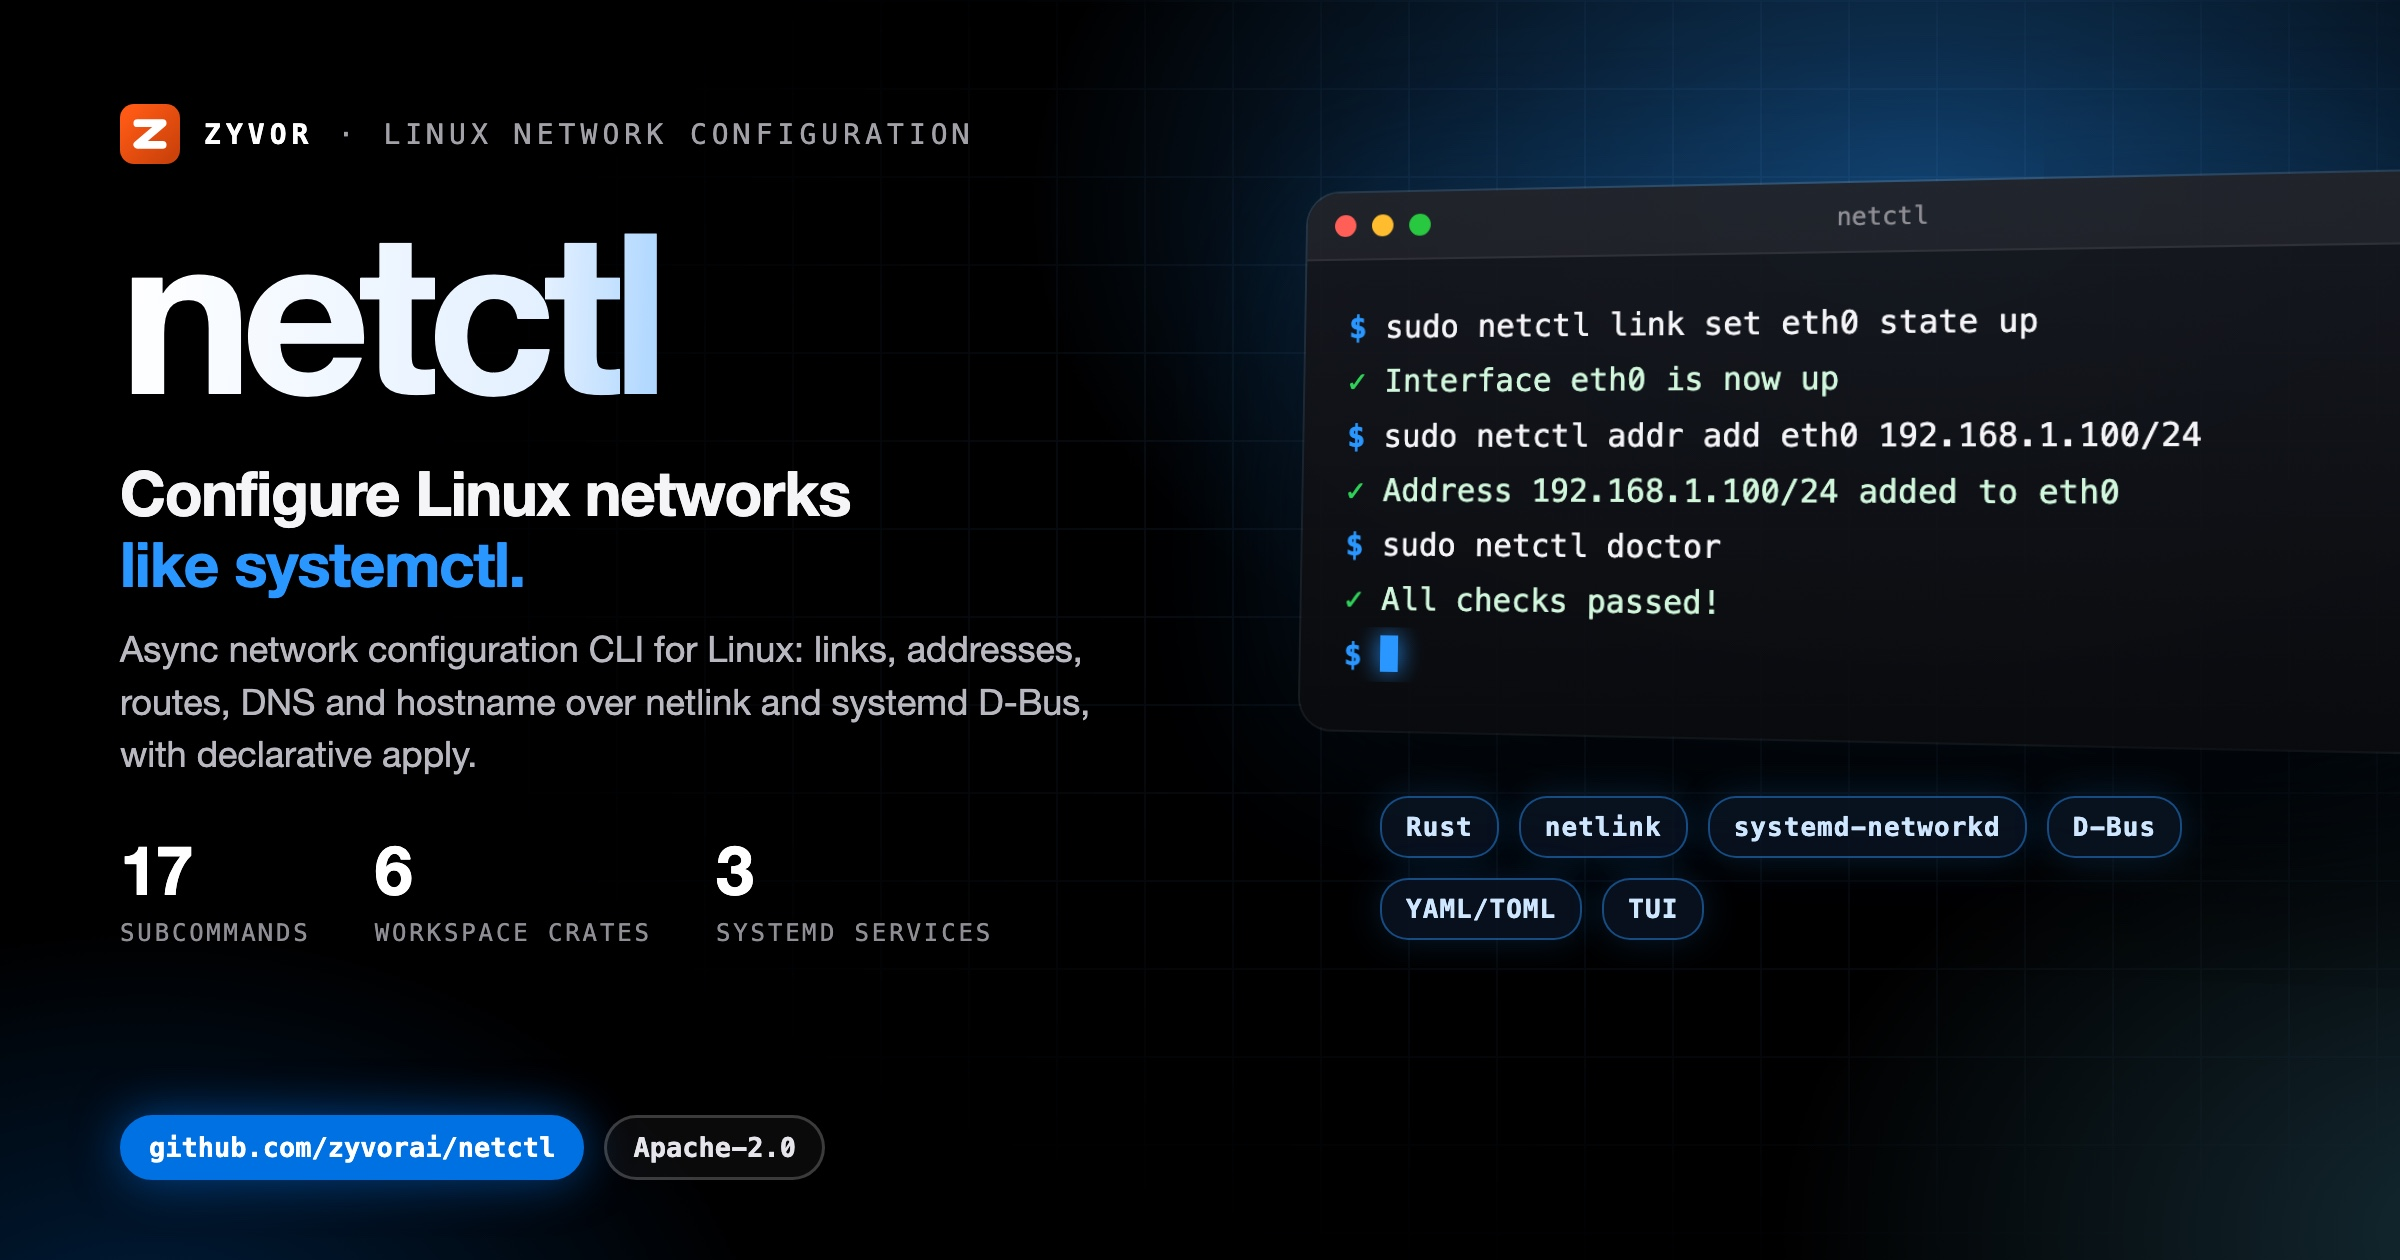
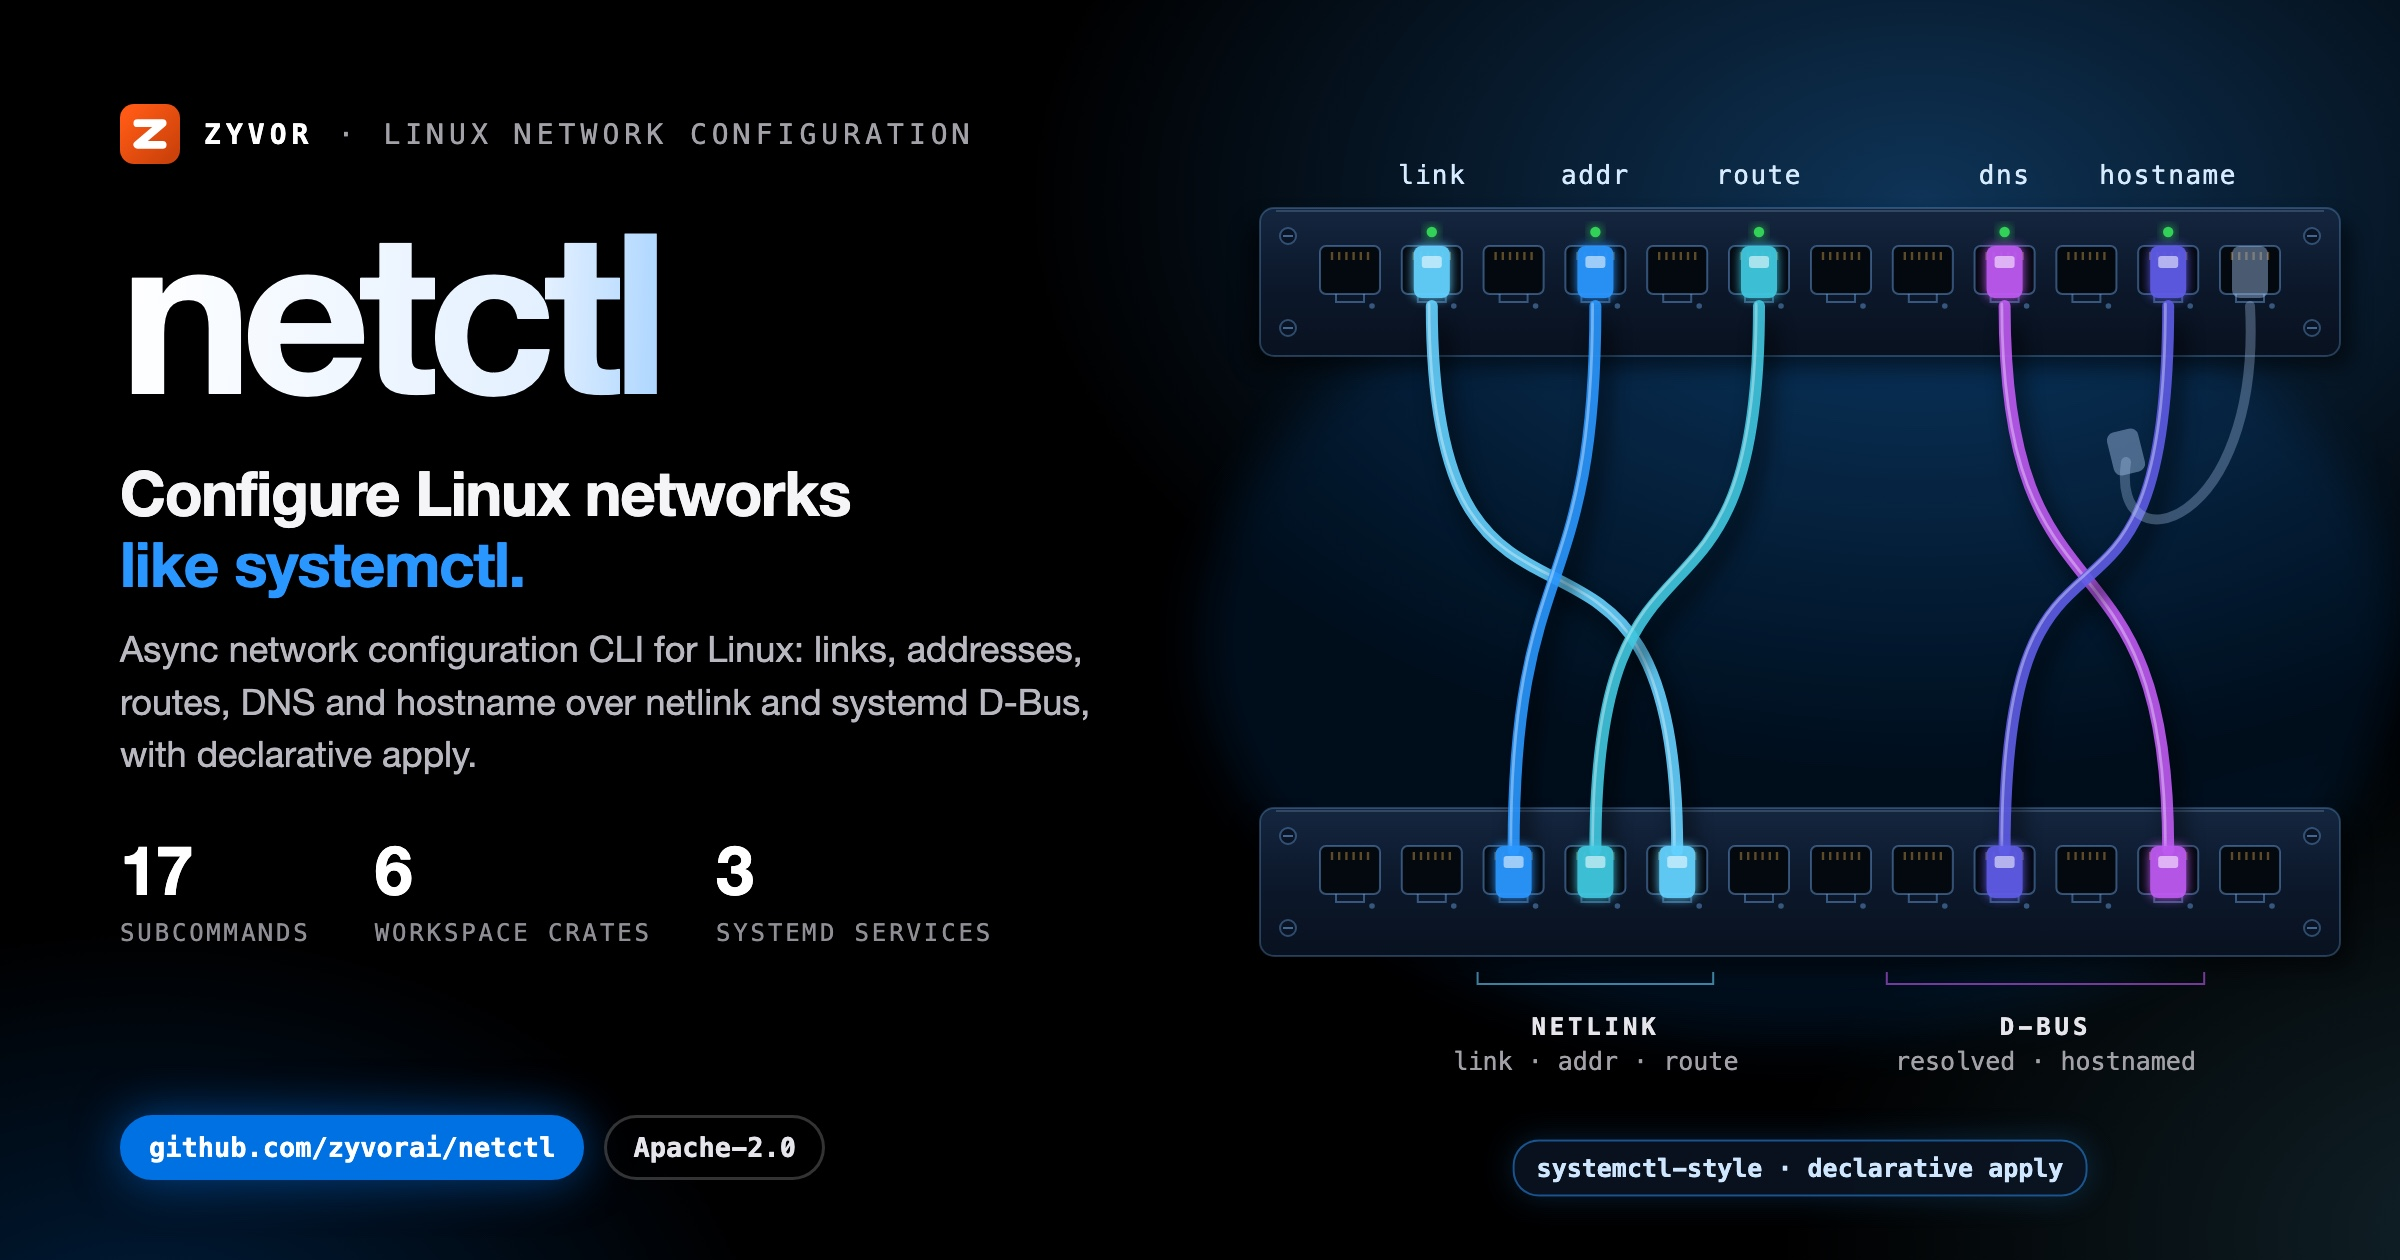
docs(social): unique illustrated hero card
Replace the shared terminal-window art with a motif drawn for this project;
same verified copy and stats on the left.

Changed region(s): [[0.5, 0.1238, 1.0, 0.8667], [0.625, 0.8976, 0.875, 0.9595]]

diff --git a/docs/social/netctl-hero-dark.html b/docs/social/netctl-hero-dark.html
@@ -8,58 +8,47 @@
   Build: ./docs/social/build-hero-dark.sh  ->  netctl-hero-dark.jpg (2400x1260)
 -->
 <style>
-  :root { --blue:#0071e3; --signal:#2997ff; --cyan:#64d2ff; --green:#30d158; --amber:#ff9f0a;
+  :root { --blue:#0071e3; --signal:#2997ff; --cyan:#64d2ff; --green:#30d158; --amber:#ff9f0a; --red:#ff453a; --violet:#bf5af2;
     --sans:'SF Pro Display','Helvetica Neue',Helvetica,Arial,sans-serif; --mono:'SF Mono',Menlo,Consolas,monospace; }
   * { box-sizing:border-box; }
   html,body { margin:0; padding:0; }
   body { width:1200px; height:630px; overflow:hidden; color:#f5f5f7; font-family:var(--sans); position:relative; background:#000; }
   .aurora { position:absolute; inset:0;
-    background:radial-gradient(720px 460px at 80% 16%, rgba(41,151,255,.40), transparent 62%),
-               radial-gradient(600px 420px at 104% 98%, rgba(100,210,255,.20), transparent 60%),
+    background:radial-gradient(720px 460px at 80% 16%, rgba(41,151,255,.34), transparent 62%),
+               radial-gradient(600px 420px at 104% 98%, rgba(100,210,255,.16), transparent 60%),
                radial-gradient(520px 380px at 6% 110%, rgba(0,113,227,.28), transparent 60%); }
-  .grid { position:absolute; inset:0; opacity:.09;
-    background-image:linear-gradient(rgba(120,180,255,.9) 1px,transparent 1px),linear-gradient(90deg,rgba(120,180,255,.9) 1px,transparent 1px);
-    background-size:44px 44px; -webkit-mask-image:radial-gradient(900px 520px at 72% 42%, #000 18%, transparent 75%); }
-  .left { position:absolute; left:60px; top:52px; width:560px; z-index:3; }
+  .copy { position:absolute; left:60px; top:52px; width:560px; z-index:3; }
   .brand { display:flex; align-items:center; gap:12px; font-family:var(--mono); font-size:14px; letter-spacing:.18em; text-transform:uppercase; color:#a1a1a6; }
   .brand b { color:#fff; }
   .word { margin:20px 0 0; font-size:112px; line-height:.95; font-weight:800; letter-spacing:-.05em; white-space:nowrap;
     background:linear-gradient(92deg,#fff 0%,#e3f0ff 38%,var(--signal) 74%,var(--cyan) 100%); -webkit-background-clip:text; background-clip:text; color:transparent; padding-bottom:6px; }
   .tag { margin:14px 0 0; font-size:31px; line-height:1.15; font-weight:700; letter-spacing:-.02em; }
   .tag em { font-style:normal; color:var(--signal); }
-  .lede { margin:12px 0 0; font-size:18px; line-height:1.45; color:#b8b8bf; width:520px; }
+  .lede { margin:12px 0 0; font-size:18px; line-height:1.45; color:#b8b8bf; width:520px; text-shadow:0 1px 12px #000; }
   .stats { margin-top:24px; display:flex; gap:32px; }
   .stat b { display:block; font-size:34px; font-weight:800; letter-spacing:-.03em; color:#fff; }
   .stat span { font-family:var(--mono); font-size:12px; letter-spacing:.12em; text-transform:uppercase; color:#8e8e93; }
   .pill { position:absolute; left:60px; bottom:40px; display:flex; gap:10px; z-index:3; }
-  .pill span { font-family:var(--mono); font-size:13.5px; font-weight:700; padding:7px 13px; border-radius:18px; border:1.5px solid rgba(255,255,255,.2); color:#e5e5ea; background:rgba(255,255,255,.04); }
+  .pill span { font-family:var(--mono); font-size:13.5px; font-weight:700; padding:7px 13px; border-radius:18px; border:1.5px solid rgba(255,255,255,.2); color:#e5e5ea; background:rgba(0,0,0,.6); }
   .pill span.b { background:var(--blue); border-color:var(--blue); color:#fff; box-shadow:0 0 24px rgba(0,113,227,.55); }
-
-  .right { position:absolute; left:652px; top:96px; width:560px; z-index:2; }
-  .win { position:relative; width:560px; border-radius:16px; overflow:hidden; z-index:2;
-    background:linear-gradient(180deg, rgba(22,24,30,.94), rgba(10,11,14,.96));
-    box-shadow:0 50px 100px rgba(0,0,0,.75), 0 0 0 1px rgba(255,255,255,.14), 0 0 90px rgba(41,151,255,.22);
-    transform:perspective(1600px) rotateY(-14deg) rotateX(4deg); transform-origin:left center; }
-  .bar { height:34px; display:flex; align-items:center; gap:8px; padding:0 14px; background:rgba(255,255,255,.05); border-bottom:1px solid rgba(255,255,255,.07); }
-  .bar i { width:11px; height:11px; border-radius:50%; background:#ff5f57; } .bar i:nth-child(2){background:#febc2e} .bar i:nth-child(3){background:#28c840}
-  .bar em { margin-left:auto; margin-right:auto; font-style:normal; font-family:var(--mono); font-size:12px; color:#8e8e93; transform:translateX(-24px); }
-  .term { min-height:214px; padding:20px 22px 24px; font-family:var(--mono); font-size:15.5px; line-height:1.75; }
-  .l { white-space:pre; overflow:hidden; text-overflow:ellipsis; color:#f5f5f7; }
-  .l .p { color:var(--signal); font-weight:700; }
-  .l.out { color:#a1a1a6; }
-  .l.cm { color:#6e6e73; }
-  .l.ok { color:#d1f7dc; } .l.ok span { color:var(--green); font-weight:700; }
-  .l.warn { color:#ffe1b0; } .l.warn span { color:var(--amber); font-weight:700; }
-  .cur { display:inline-block; width:9px; height:18px; background:var(--signal); vertical-align:-3px; box-shadow:0 0 12px var(--signal); }
-  .chips { margin:34px 0 0 38px; width:480px; display:flex; flex-wrap:wrap; gap:10px; position:relative; z-index:3; }
-  .chips span { font-family:var(--mono); font-size:13px; font-weight:700; letter-spacing:.04em; padding:7px 12px; border-radius:14px;
-    color:#cfe6ff; background:rgba(10,20,35,.82); border:1px solid rgba(41,151,255,.45); box-shadow:0 0 18px rgba(41,151,255,.18); }
+  .art { position:absolute; left:520px; top:0; width:680px; height:630px; z-index:2; }
+  .art svg { display:block; }
+  #labels { position:absolute; inset:0; z-index:4; pointer-events:none; }
+  .lbl { position:absolute; font-family:var(--mono); font-size:12.5px; color:#a1a1a6; text-align:center; transform:translate(-50%,-50%); white-space:nowrap; }
+  .lbl b { display:block; font-size:12px; letter-spacing:.16em; text-transform:uppercase; color:#e5e5ea; }
+  .lbl span { display:block; margin-top:3px; }
+  .lbl.box { padding:7px 12px; border-radius:12px; background:rgba(8,10,14,.85); border:1px solid rgba(255,255,255,.14); }
+  .lbl.chip { padding:6px 11px; border-radius:13px; font-size:12.5px; font-weight:700; color:#cfe6ff; background:rgba(10,20,35,.85); border:1px solid rgba(41,151,255,.5); box-shadow:0 0 16px rgba(41,151,255,.2); }
+  .lbl.left { transform:translate(0,-50%); text-align:left; }
+  .lbl.right { transform:translate(-100%,-50%); text-align:right; }
+  .ok { color:var(--green) !important; } .warn { color:var(--amber) !important; } .bad { color:var(--red) !important; } .sig { color:var(--signal) !important; } .cy { color:var(--cyan) !important; } .vi { color:var(--violet) !important; }
 </style>
 </head>
 <body>
 <div class="aurora"></div>
-<div class="grid"></div>
-<div class="left">
+<div class="art"><svg id="art" width="680" height="630" viewBox="0 0 680 630" xmlns="http://www.w3.org/2000/svg"></svg></div>
+<div id="labels"></div>
+<div class="copy">
   <div class="brand"><svg viewBox="0 0 64 64" width="30" height="30" aria-hidden="true"><defs><linearGradient id="zb" x1="8" y1="8" x2="56" y2="56" gradientUnits="userSpaceOnUse"><stop offset="0" stop-color="#ff5a15"/><stop offset="1" stop-color="#cc420a"/></linearGradient></defs><rect width="64" height="64" rx="15" fill="url(#zb)"/><path d="M18.5,20.5 45.5,20.5 18.5,43.5 45.5,43.5" fill="none" stroke="#fff" stroke-width="8.3" stroke-linecap="round" stroke-linejoin="round"/></svg><b>Zyvor</b><span>&middot;</span><span>Linux network configuration</span></div>
   <div class="word">netctl</div>
   <div class="tag">Configure Linux networks<br><em>like systemctl.</em></div>
@@ -67,8 +56,103 @@
   <div class="stats"><div class="stat"><b>17</b><span>subcommands</span></div><div class="stat"><b>6</b><span>workspace crates</span></div><div class="stat"><b>3</b><span>systemd services</span></div></div>
 </div>
 <div class="pill"><span class="b">github.com/zyvorai/netctl</span><span>Apache-2.0</span></div>
-<div class="right"><div class="win"><div class="bar"><i></i><i></i><i></i><em>netctl</em></div>
-<div class="term"><div class="l"><span class="p">$</span> sudo netctl link set eth0 state up</div><div class="l ok"><span>&#10003;</span> Interface eth0 is now up</div><div class="l"><span class="p">$</span> sudo netctl addr add eth0 192.168.1.100/24</div><div class="l ok"><span>&#10003;</span> Address 192.168.1.100/24 added to eth0</div><div class="l"><span class="p">$</span> sudo netctl doctor</div><div class="l ok"><span>&#10003;</span> All checks passed!</div><div class="l"><span class="p">$</span> <i class="cur"></i></div></div></div>
-<div class="chips"><span>Rust</span><span>netlink</span><span>systemd-networkd</span><span>D-Bus</span><span>YAML/TOML</span><span>TUI</span></div></div>
+<script>
+var Z = (function () {
+  var NS = 'http://www.w3.org/2000/svg', svg = document.getElementById('art'), labels = document.getElementById('labels');
+  var seed = 20261004;
+  function rnd() { seed = (seed * 1103515245 + 12345) % 2147483648; return seed / 2147483648; }
+  function el(tag, a, parent) { var n = document.createElementNS(NS, tag); for (var k in a) n.setAttribute(k, a[k]); (parent || svg).appendChild(n); return n; }
+  function g(attrs) { return el('g', attrs || {}); }
+  function label(x, y, inner, cls, style) { var d = document.createElement('div'); d.className = 'lbl ' + (cls || ''); d.style.left = (520 + x) + 'px'; d.style.top = y + 'px'; if (style) d.setAttribute('style', d.getAttribute('style') + ';' + style); d.innerHTML = inner; labels.appendChild(d); return d; }
+  return { NS: NS, svg: svg, W: 680, H: 630, rnd: rnd, el: el, g: g, label: label,
+    reseed: function (s) { seed = s; },
+    c: { blue: '#0071e3', signal: '#2997ff', cyan: '#64d2ff', green: '#30d158', amber: '#ff9f0a', red: '#ff453a', violet: '#bf5af2', teal: '#40c8e0', indigo: '#5e5ce6', pink: '#ff375f', white: '#f5f5f7', grey: '#8e8e93' } };
+})();
+(function () {
+// netctl: a patch bay. The top panel holds the netctl verbs; smooth patch cables drop to the bottom panel,
+// where netlink and the systemd D-Bus services take them.
+var C = Z.c, x0 = 110, x1 = 650, mono = 'ui-monospace, SFMono-Regular, Menlo, monospace';
+var defs = Z.el('defs', {});
+defs.innerHTML = '<filter id="nc-gl" x="-50%" y="-50%" width="200%" height="200%"><feGaussianBlur stdDeviation="2.6" result="b"/><feMerge><feMergeNode in="b"/><feMergeNode in="SourceGraphic"/></feMerge></filter>' +
+  '<filter id="nc-sf" x="-50%" y="-50%" width="200%" height="200%"><feGaussianBlur stdDeviation="12"/></filter>' +
+  '<filter id="nc-sh" x="-50%" y="-50%" width="200%" height="200%"><feGaussianBlur stdDeviation="5"/></filter>' +
+  '<linearGradient id="nc-panel" x1="0" y1="0" x2="0" y2="1"><stop offset="0" stop-color="#14263f"/><stop offset=".5" stop-color="#0c182b"/><stop offset="1" stop-color="#08111f"/></linearGradient>';
+function f(v) { return v.toFixed(1); }
+function txt(x, y, s, fill, size, anchor, ls) {
+  var t = Z.el('text', { x: f(x), y: f(y), fill: fill, 'font-family': mono, 'font-size': size, 'text-anchor': anchor || 'middle', 'letter-spacing': ls || '.06em' });
+  t.textContent = s; return t;
+}
+
+// panel: rack rails, screws, a row of ports; returns port centres
+function panel(y, h, n, title) {
+  Z.el('rect', { x: x0 - 6, y: y + 6, width: x1 - x0 + 12, height: h, rx: 8, fill: '#000', opacity: .5, filter: 'url(#nc-sh)' });
+  Z.el('rect', { x: x0, y: y, width: x1 - x0, height: h, rx: 7, fill: 'url(#nc-panel)', stroke: 'rgba(120,185,255,.28)' });
+  Z.el('line', { x1: x0 + 8, y1: y + 1.5, x2: x1 - 8, y2: y + 1.5, stroke: 'rgba(200,230,255,.18)' });
+  [x0 + 14, x1 - 14].forEach(function (sx) { [y + 14, y + h - 14].forEach(function (sy) {
+    Z.el('circle', { cx: sx, cy: sy, r: 4, fill: '#0a1424', stroke: 'rgba(120,185,255,.35)' });
+    Z.el('line', { x1: sx - 2.5, y1: sy, x2: sx + 2.5, y2: sy, stroke: 'rgba(120,185,255,.5)' });
+  }); });
+  var ports = [], pw = 30, gap = (x1 - x0 - 60 - n * pw) / (n - 1);
+  for (var i = 0; i < n; i++) {
+    var px = x0 + 30 + i * (pw + gap), py = y + h / 2 - 8;
+    Z.el('rect', { x: f(px), y: f(py - 10), width: pw, height: 24, rx: 3, fill: '#04080f', stroke: 'rgba(120,185,255,.4)' });
+    Z.el('path', { d: 'M' + f(px + 8) + ',' + f(py + 14) + ' v4 h14 v-4', fill: 'none', stroke: 'rgba(120,185,255,.4)' });
+    for (var k = 0; k < 6; k++) Z.el('line', { x1: f(px + 6 + k * 3.6), y1: f(py - 7), x2: f(px + 6 + k * 3.6), y2: f(py - 3), stroke: 'rgba(255,200,90,.35)', 'stroke-width': 1.2 });
+    ports.push({ x: px + pw / 2, y: py + 2, i: i });
+  }
+  return ports;
+}
+
+Z.el('ellipse', { cx: 380, cy: 320, rx: 300, ry: 200, fill: '#0071e3', opacity: .12, filter: 'url(#nc-sf)' });
+var topY = 104, botY = 404, ph = 74, NP = 12;
+var top = panel(topY, ph, NP), bot = panel(botY, ph, NP);
+
+// cables: verb -> backend
+var verbs = [
+  { p: 1, n: 'link', c: C.cyan, to: 4 },
+  { p: 3, n: 'addr', c: C.signal, to: 2 },
+  { p: 5, n: 'route', c: C.teal, to: 3 },
+  { p: 8, n: 'dns', c: C.violet, to: 10 },
+  { p: 10, n: 'hostname', c: C.indigo, to: 8 }
+];
+var backs = [
+  { from: 2, to: 4, label: 'netlink', sub: 'link &middot; addr &middot; route', c: C.cyan },
+  { from: 7, to: 10, label: 'D-Bus', sub: 'resolved &middot; hostnamed', c: C.violet }
+];
+// group brackets under bottom panel
+backs.forEach(function (b) {
+  var a = bot[b.from].x - 18, z = bot[b.to].x + 18, y = botY + ph + 14;
+  Z.el('path', { d: 'M' + f(a) + ',' + f(y - 6) + ' v6 H' + f(z) + ' v-6', fill: 'none', stroke: b.c, opacity: .6 });
+  Z.label((a + z) / 2, y + 30, '<b>' + b.label + '</b><span>' + b.sub + '</span>');
+});
+
+var jx = 0;
+verbs.forEach(function (v, k) {
+  var s = top[v.p], e = bot[v.to];
+  var sy = s.y + 18, ey = e.y - 10, pull = [210, 150, 185, 170, 200][k];
+  var d = 'M' + f(s.x) + ',' + f(sy) + ' C' + f(s.x) + ',' + f(sy + pull) + ' ' + f(e.x) + ',' + f(ey - pull) + ' ' + f(e.x) + ',' + f(ey);
+  Z.el('path', { d: d, fill: 'none', stroke: '#000', 'stroke-width': 9, opacity: .45, filter: 'url(#nc-sh)', transform: 'translate(4,8)' });
+  Z.el('path', { d: d, fill: 'none', stroke: v.c, 'stroke-width': 6, 'stroke-linecap': 'round', opacity: .9 });
+  Z.el('path', { d: d, fill: 'none', stroke: '#fff', 'stroke-width': 1.4, 'stroke-linecap': 'round', opacity: .35, transform: 'translate(-1.4,-1)' });
+  // plug boots
+  [[s.x, s.y, 1], [e.x, e.y, -1]].forEach(function (pp) {
+    Z.el('rect', { x: f(pp[0] - 9), y: f(pp[1] - 12), width: 18, height: 26, rx: 4, fill: v.c, opacity: .95, filter: 'url(#nc-gl)' });
+    Z.el('rect', { x: f(pp[0] - 5), y: f(pp[1] - 7), width: 10, height: 6, rx: 1.5, fill: '#fff', opacity: .55 });
+  });
+  // LED above the top port + verb label
+  Z.el('circle', { cx: f(s.x), cy: f(topY + 12), r: 2.6, fill: C.green, filter: 'url(#nc-gl)' });
+  txt(s.x, topY - 12, v.n, '#d6ebff', 13);
+});
+// a loose spare cable hanging from the top panel
+var sp = top[11], sd = 'M' + f(sp.x) + ',' + f(sp.y + 18) + ' C' + f(sp.x + 6) + ',' + f(sp.y + 130) + ' ' + f(sp.x - 70) + ',' + f(sp.y + 150) + ' ' + f(sp.x - 62) + ',' + f(sp.y + 96);
+Z.el('path', { d: sd, fill: 'none', stroke: 'rgba(160,190,230,.35)', 'stroke-width': 5, 'stroke-linecap': 'round' });
+Z.el('rect', { x: f(sp.x - 9), y: f(sp.y - 12), width: 18, height: 26, rx: 4, fill: 'rgba(160,190,230,.45)' });
+Z.el('rect', { x: f(sp.x - 70), y: f(sp.y + 80), width: 16, height: 22, rx: 4, fill: 'rgba(160,190,230,.45)', transform: 'rotate(-14 ' + f(sp.x - 62) + ' ' + f(sp.y + 91) + ')' });
+// dim LEDs on unused ports
+top.concat(bot).forEach(function (p) { Z.el('circle', { cx: f(p.x + 11), cy: f(p.y + 18), r: 1.4, fill: 'rgba(120,185,255,.4)' }); });
+
+Z.label(380, 584, 'systemctl-style &middot; declarative apply', 'chip');
+})();
+</script>
 </body>
 </html>
